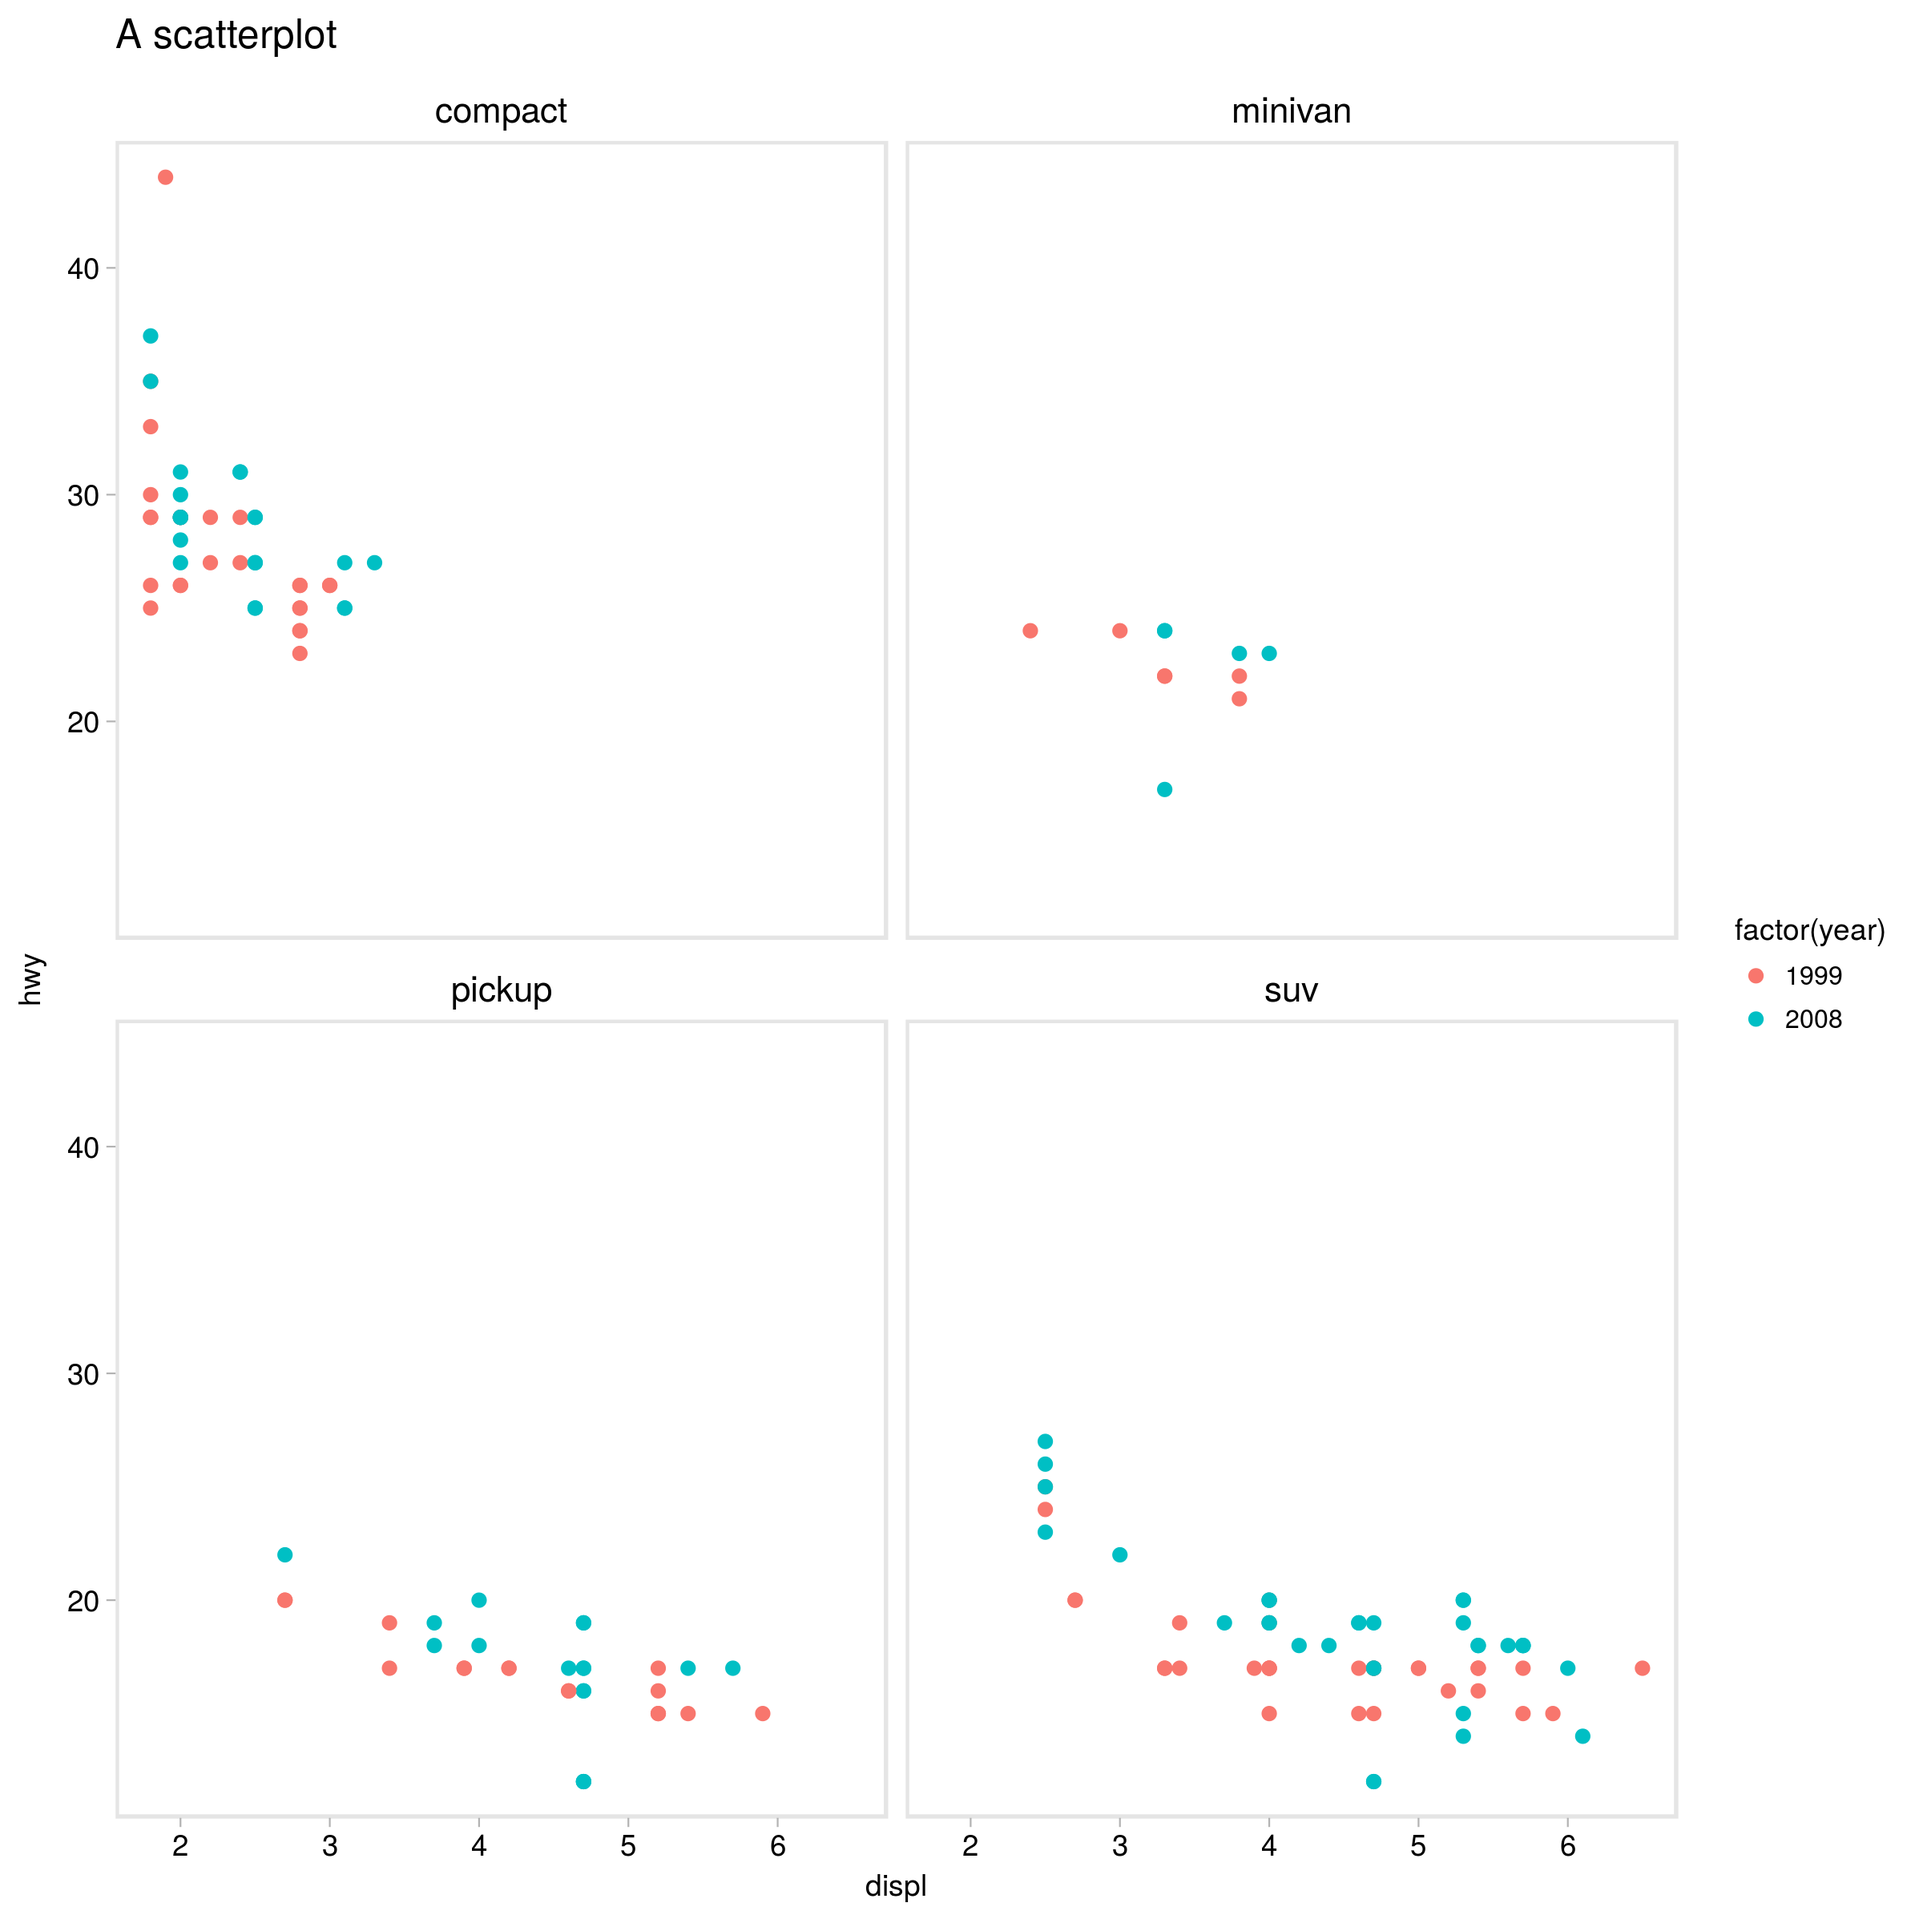
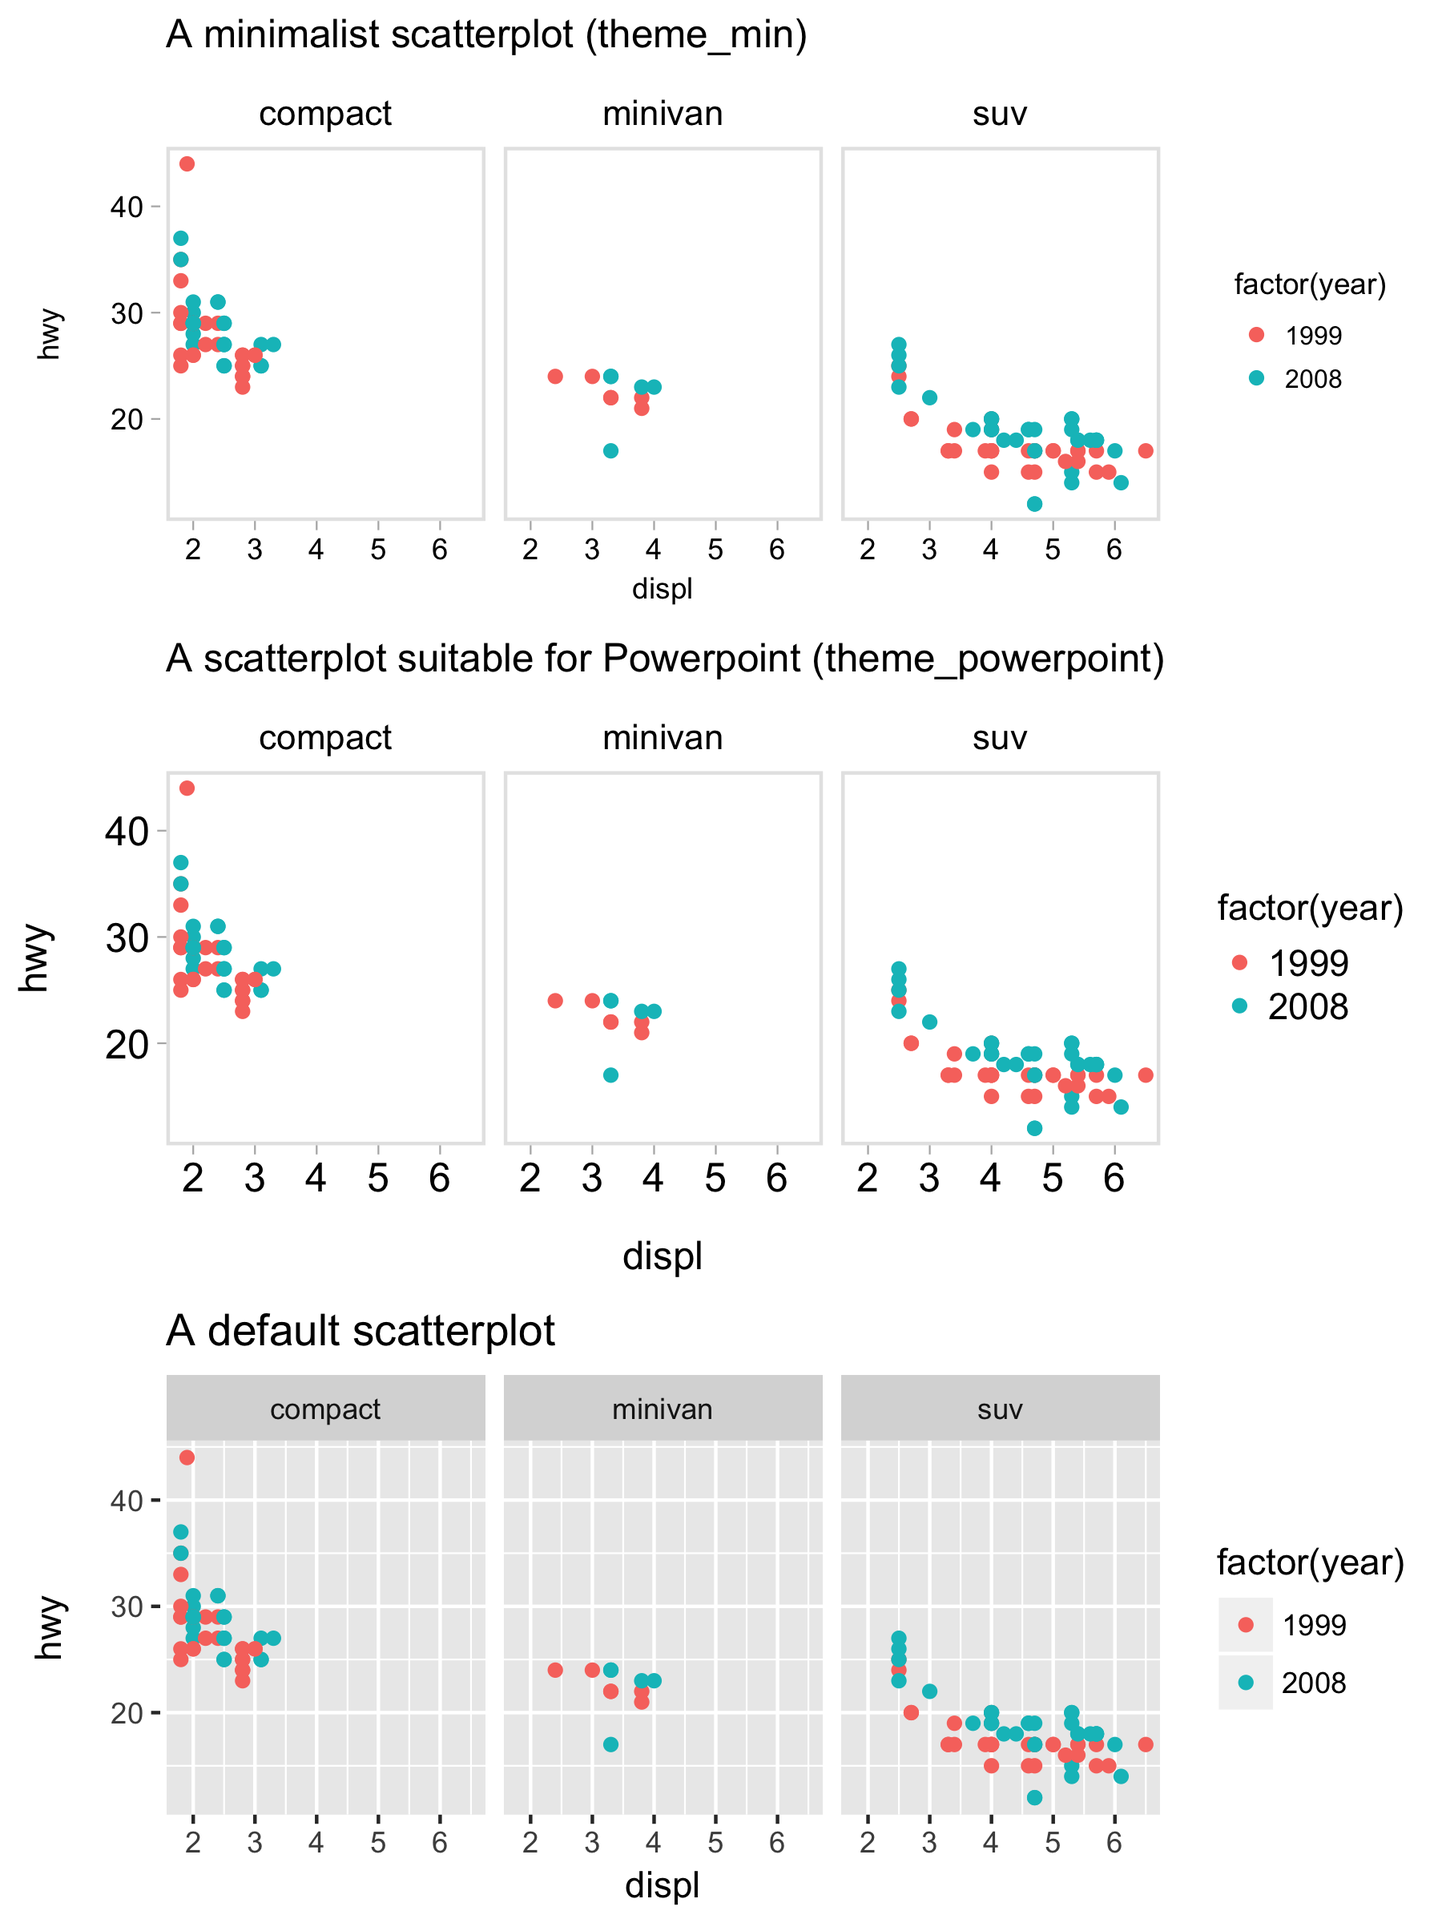
Update readme

diff --git a/README.md b/README.md
@@ -1,8 +1,9 @@
 [![Build Status](https://travis-ci.org/sjessa/ggmin.svg?branch=master)](https://travis-ci.org/sjessa/ggmin)
 
 # ggmin
-A clean, minimalist theme for ggplot2
-
+Two clean themes for `ggplot2`:
+* `theme_min()`: a minimalist theme for general use
+* `theme_powerpoint`: a minimalist theme with a few handy defaults for plots for Powerpoint slides: larger text in certain elements, and a little room between axis titles and the plot
 
 # install
 ```
@@ -12,8 +13,6 @@ devtools::install_github("sjessa/ggmin")
 
 # use
 ```
-library(ggmin)
-
 df %>%
   ggplot(aes(x = X, y = y)) +
   ... + # Other layers (geoms, etc.) here
@@ -22,23 +21,21 @@ df %>%
 ```
 
 # example
-
-With `ggmin::theme_min()`:
 ```
-library(ggmin)
-
-mpg %>% 
-  filter(class %in% c("compact", "suv", "pickup", "minivan")) %>% 
+p <- mpg %>% 
+  filter(class %in% c("compact", "suv")) %>% 
   ggplot(aes(x = displ, y = hwy)) +
   geom_point(aes(colour = factor(year))) +
-  facet_wrap(~ class) +
-  ggtitle("A scatterplot") +
-  ggmin::theme_min()
+  facet_wrap(~ class, ncol = 2)
+
+p + ggmin::theme_min() +
+  ggtitle("A minimalist scatterplot")
+
+p + ggmin::theme_powerpoint() +
+  ggtitle("A scatterplot suitable for Powerpoint")
+  
+p +
+  ggtitle("A default scatterplot")
 
 ```
 ![](fig/mpg.png)
-
-
-The `ggplot2` default:
-
-![](fig/mpg_default.png)
